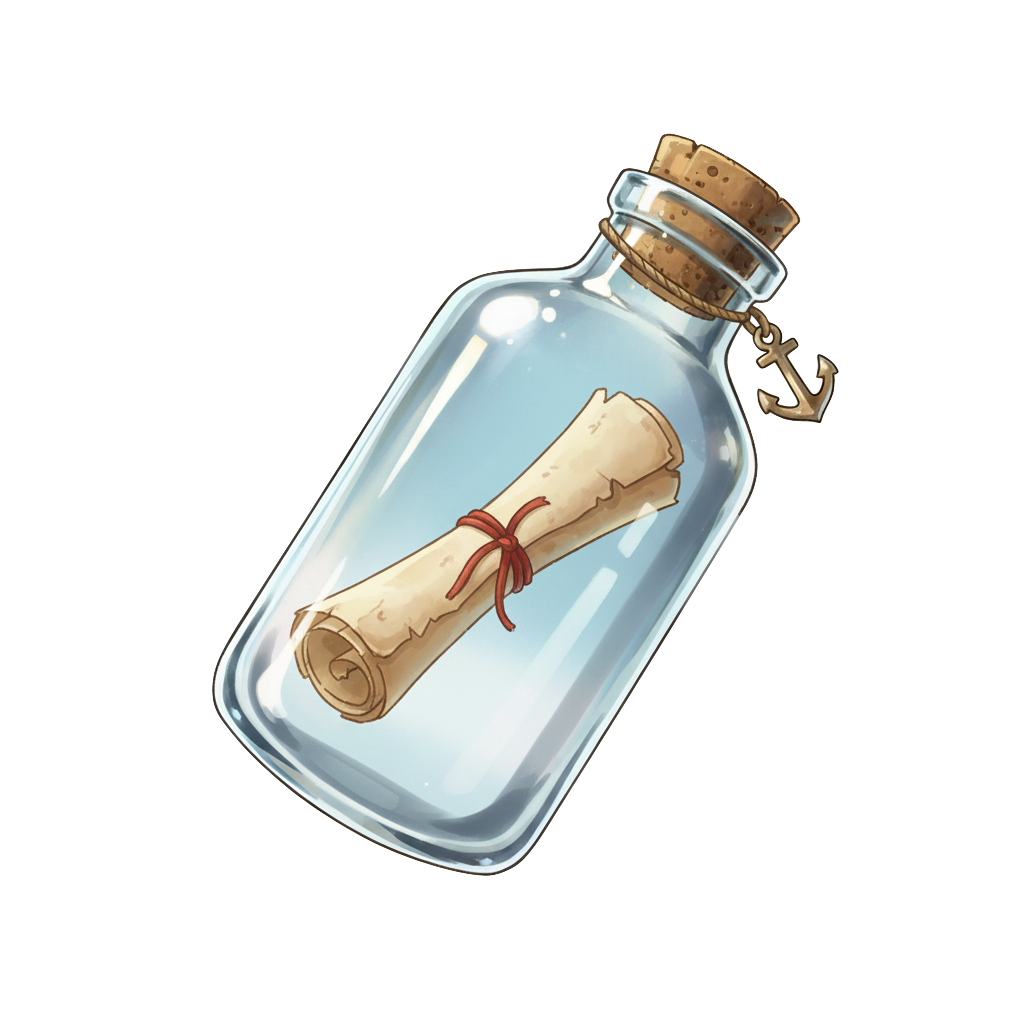
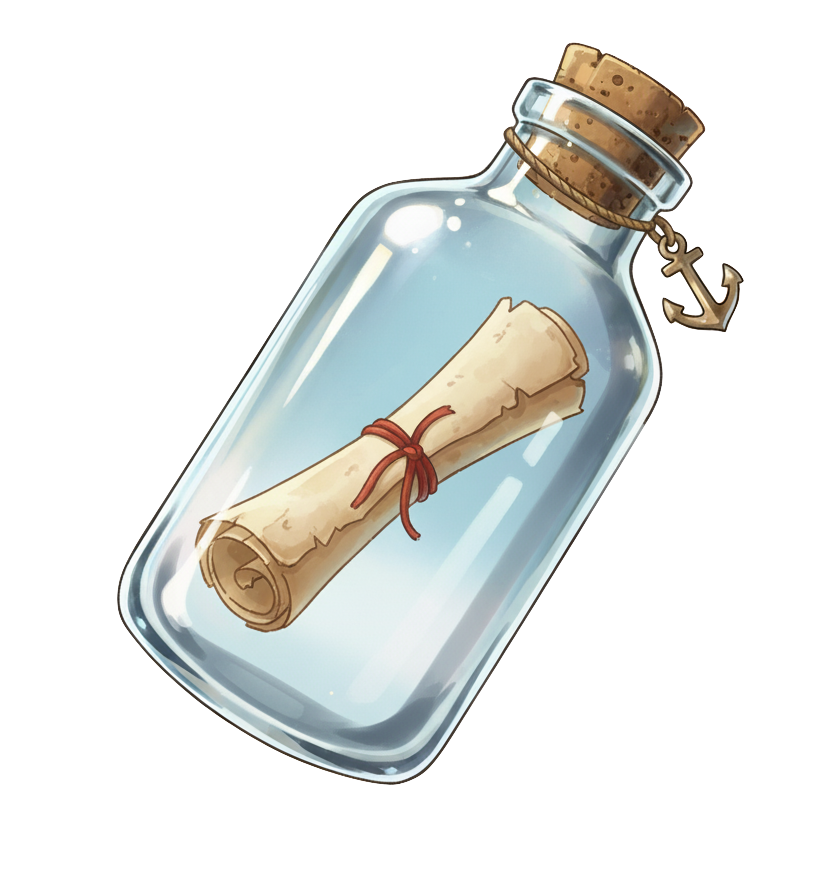
ボトルメールのUI頑張った

Changed region(s): [[0.1209, 0.0302, 0.9069, 0.8768]]

diff --git a/frontend/src/views/MainView.vue b/frontend/src/views/MainView.vue
@@ -33,24 +33,24 @@ const generateBottleStyle = (index) => {
   
   const pattern = patterns[index % patterns.length]
   
-  // 1. 大移動 (30〜45秒かけて移動)
-  const journeyDuration = Math.random() * 15 + 30
+  // 1. 大移動 (★35〜55秒かけて移動 - 少しゆっくりに)
+  const journeyDuration = Math.random() * 20 + 35
   const journeyDelay = Math.random() * 10
   
-  // 2. 縦の「ぷかぷか」 (3〜5秒周期で、50〜110px上下)
-  const bobDuration = Math.random() * 2 + 3
+  // 2. 縦の「ぷかぷか」 (★6〜11秒周期 - さらにゆったり)
+  const bobDuration = Math.random() * 5 + 6
   const bobDelay = Math.random() * 2
-  const bobY = Math.random() * 60 + 50
+  const bobY = Math.random() * 60 + 50 // 50〜110px上下
   
   // 3. 回転のゆらぎ (5〜9秒周期で、±25〜60度回転)
   const rotateDuration = Math.random() * 4 + 5
   const rotateDelay = Math.random() * 3
   const rotateAngle = Math.random() * 35 + 25
   
-  // 4. 小刻みな横揺れ (2〜4秒周期で、30〜70px左右)
-  const wiggleDuration = Math.random() * 2 + 2
+  // 4. 小刻みな横揺れ (★3〜6秒周期 - 少しゆっくりに)
+  const wiggleDuration = Math.random() * 3 + 3
   const wiggleDelay = Math.random() * 1.5
-  const wiggleX = Math.random() * 40 + 30
+  const wiggleX = Math.random() * 40 + 30 // 30〜70px左右
   
   return {
     '--start-x': `${pattern.startX}%`,
@@ -273,7 +273,6 @@ const isDimmed = computed(() => isModalOpen.value)
   pointer-events: none;
   z-index: 0;
 }
-
 .waves::before,
 .waves::after {
   content: '';
@@ -287,19 +286,16 @@ const isDimmed = computed(() => isModalOpen.value)
   background-repeat: repeat-x;
   animation: wave-scroll 15s linear infinite;
 }
-
 .waves::before {
   opacity: 0.1;
   animation-duration: 10s;
   animation-direction: reverse;
 }
-
 .waves::after {
   opacity: 0.2;
   animation-duration: 20s;
   bottom: 10px;
 }
-
 @keyframes wave-scroll {
   from { background-position-x: 0; }
   to { background-position-x: 1000px; }
@@ -342,134 +338,97 @@ const isDimmed = computed(() => isModalOpen.value)
   margin: 0 auto;
 }
 
-/* ========================================================= */
-/* ★★★ 改良: 4層アニメーション（滑らかな往復） ★★★ */
-/* ========================================================= */
-
-/* 1⃣ 画面を大きく横断 (0% -> 100% の「片道」) */
+/* アニメーションの定義 (片道) */
 @keyframes bottleJourney {
-  0% {
-    left: var(--start-x);
-    top: var(--start-y);
-  }
-  100% {
-    left: var(--end-x);
-    top: var(--end-y);
-  }
+  0% { left: var(--start-x); top: var(--start-y); }
+  100% { left: var(--end-x); top: var(--end-y); }
 }
-
-/* 2⃣ 縦の「ぷかぷか」波のうねり (0% -> 100% の「片道」) */
 @keyframes floatBob {
-  0% {
-    transform: translateY(0);
-  }
-  100% {
-    transform: translateY(calc(var(--bob-y) * -1));
-  }
+  0% { transform: translateY(0); }
+  100% { transform: translateY(calc(var(--bob-y) * -1)); }
 }
-
-/* 3⃣ 小刻みな横揺れ (0% -> 100% の「片道」) */
 @keyframes floatWiggle {
-  0% {
-    transform: translateX(0);
-  }
-  100% {
-    transform: translateX(var(--wiggle-x));
-  }
+  0% { transform: translateX(0); }
+  100% { transform: translateX(var(--wiggle-x)); }
 }
-
-/* 4⃣ 回転のゆらぎ (0% -> 100% の「片道」) */
 @keyframes floatRotate {
-  0% {
-    transform: rotate(calc(var(--rotate-angle) * -0.5));
-  }
-  100% {
-    transform: rotate(calc(var(--rotate-angle) * 0.5));
-  }
+  0% { transform: rotate(calc(var(--rotate-angle) * -0.5)); }
+  100% { transform: rotate(calc(var(--rotate-angle) * 0.5)); }
 }
 
-/* ボトルラッパー (4層全部適用 + 加速度調整) */
+/* ボトルラッパー (移動 + 上下動) */
 .bottle-wrapper {
   position: absolute;
   cursor: pointer;
-  z-index: 1; /* 波より上 */
-  
-  animation-name: bottleJourney, floatBob, floatWiggle, floatRotate;
-  
-  /* ★★★ 改良: 加速度の調整 ★★★ */
-  /*
-    'ease-in-out' に統一。
-    これにより、動きの「始まり」と「終わり」がすべて滑らかになる。
-  */
-  animation-timing-function: 
-    ease-in-out, /* 1. Journey */
-    ease-in-out, /* 2. Bob */
-    ease-in-out, /* 3. Wiggle */
-    ease-in-out; /* 4. Rotate */
-  
-  animation-iteration-count: infinite, infinite, infinite, infinite;
-  
-  /* ★★★ 改良: 往復運動の指定 ★★★ */
-  /*
-    'alternate' (往復) に設定。
-    これにより「行き」と「帰り」が滑らかに繋がり、
-    カクカクした「跳ね返り」が完全になくなる。
-  */
-  animation-direction: alternate, alternate, alternate, alternate;
-
-  /* ★★★ 改良: 初期位置の適用 ★★★ */
-  /*
-    'backwards' を指定。
-    これにより、リロード直後（delay中）に左上に飛ぶ問題がなくなり、
-    最初から 'start-x', 'start-y' の位置で待機する。
-  */
-  animation-fill-mode: backwards, backwards, backwards, backwards;
-
+  z-index: 1;
+  animation-name: bottleJourney, floatBob;
+  animation-timing-function: ease-in-out, ease-in-out;
+  animation-iteration-count: infinite, infinite;
+  animation-direction: alternate, alternate;
+  animation-fill-mode: backwards, backwards;
   animation-duration: 
     var(--journey-duration),
-    var(--bob-duration), 
-    var(--wiggle-duration),
-    var(--rotate-duration);
+    var(--bob-duration);
   animation-delay: 
     var(--journey-delay),
-    var(--bob-delay), 
-    var(--wiggle-delay),
-    var(--rotate-delay);
+    var(--bob-delay);
 }
 
-/* ★★★ 改良: .bottle コンテナ ★★★ */
+/* .bottle コンテナ (タグの親 + 横揺れ) */
 .bottle {
-  /* タグの配置基準にするため relative を指定 */
   position: relative;
-  display: inline-block; /* transform しやすくするため */
+  display: inline-block;
+  animation-name: floatWiggle;
+  animation-timing-function: ease-in-out;
+  animation-iteration-count: infinite;
+  animation-direction: alternate;
+  animation-fill-mode: backwards;
+  animation-duration: var(--wiggle-duration);
+  animation-delay: var(--wiggle-delay);
 }
 
-/* ボトル画像 */
+/* ボトル画像 (回転) */
 .bottle-image {
-  /* ★★★ 改良: ボトルサイズを大きく ★★★ */
-  width: 180px;
+  /* ★ サイズを大きく */
+  width: 220px; 
   height: auto;
   filter: drop-shadow(0 6px 12px rgba(0, 0, 0, 0.25));
   transition: transform 0.3s ease, filter 0.3s ease;
+  animation-name: floatRotate;
+  animation-timing-function: ease-in-out;
+  animation-iteration-count: infinite;
+  animation-direction: alternate;
+  animation-fill-mode: backwards;
+  animation-duration: var(--rotate-duration);
+  animation-delay: var(--rotate-delay);
 }
 
 .bottle-wrapper:hover .bottle-image {
   transform: scale(1.15);
   filter: drop-shadow(0 10px 20px rgba(0, 0, 0, 0.4));
+  animation-play-state: paused;
 }
-
 .bottle-wrapper:hover {
   animation-play-state: paused;
   z-index: 10;
 }
+.bottle-wrapper:hover .bottle {
+  animation-play-state: paused;
+}
 
-/* ★★★ 改良: タグのデザイン (白タグ) ★★★ */
+
+/* ★★★ 改良: タグのデザイン (中央基点) ★★★ */
 .bottle-tags {
   position: absolute;
-  /* ボトル画像の手紙の位置に微調整 */
-  bottom: 50px; 
-  left: 60%;
-  transform: translateX(-50%) rotate(8deg); /* 少し斜めに */
+  /* ★ .bottle コンテナの中央を基点にする */
+  top: 50%;
+  left: 50%;
+  /* ★ 基点から手紙の紐あたりまで微調整 */
+  /* translateX(-50%) translateY(-50%) で中央揃えにしつつ、
+     ピクセルで右下にずらす */
+  /* ★★★ 改良: translateY の値を増やして全体を下に移動 ★★★ */
+  /* 以前: translateY(calc(-50% + 15px)) */
+  transform: translateX(calc(-50% + 25px)) translateY(calc(-50% + 60px)) rotate(8deg); /* Y方向のオフセットを +15px -> +25px に変更 */
   display: flex;
   flex-direction: column;
   gap: 4px;
@@ -482,25 +441,32 @@ const isDimmed = computed(() => isModalOpen.value)
 .bottle-tags::before {
   content: '';
   position: absolute;
-  top: -12px;
-  left: 10px;
-  width: 1px; /* 紐を細く */
-  height: 15px;
-  background: #A1887F; /* 紐の色 (こげ茶) */
-  transform: rotate(-25deg);
+  /* ★ タグの上端左側に紐の「下端」が来るように調整 */
+  top: -30px;      /* タグの上端に合わせる */
+  left: 0px;   /* タグの少し左に起点 */
+  
+  /* ★ 紐自体の回転起点 */
+  transform-origin: bottom center; 
+  
+  /* ★★★ 改良: translateYを削除し、rotateのみにする ★★★ */
+  /* これにより、紐の下端が top:0, left:5px の位置に来る */
+  transform: rotate(-15deg); 
+  
+  width: 2px;
+  height: 35px; /* 紐の長さ */
+  background: #902821c3;
   opacity: 0.8;
 }
-
 /* 白いタグ本体 */
 .simple-tag {
-  background: #ffffff; /* 白背景 */
+  background: rgba(255, 255, 255, 0.85); /* 半透明 */
   padding: 3px 7px;
   border-radius: 4px;
   font-size: 0.7rem;
-  color: #4E4E4E; /* グレー文字 */
-  box-shadow: 0 1px 3px rgba(0,0,0,0.2);
+  color: #4E4E4E;
+  box-shadow: 0 1px 3px rgba(0,0,0,0.15);
   font-weight: 600;
-  border: 1px solid #eee;
+  border: 1px solid rgba(255, 255, 255, 0.4);
   white-space: nowrap;
 }
 
@@ -509,7 +475,7 @@ const isDimmed = computed(() => isModalOpen.value)
   font-size: 0.7rem;
   color: #4E4E4E;
   font-weight: 600;
-  background: rgba(255, 255, 255, 0.9);
+  background: rgba(255, 255, 255, 0.75);
   border-radius: 4px;
   padding: 2px 4px;
 }
@@ -625,7 +591,6 @@ const isDimmed = computed(() => isModalOpen.value)
 /* レスポンシブ */
 @media (max-width: 768px) {
   .bottle-image { 
-    /* ★★★ 改良: スマホでもサイズアップ ★★★ */
     width: 125px; 
   }
   .floating-toggle { 
@@ -636,6 +601,15 @@ const isDimmed = computed(() => isModalOpen.value)
   .simple-tag { 
     font-size: 0.65rem; 
     padding: 3px 6px; 
+  }
+  
+  /* ★ スマホ用のタグ位置調整 */
+  .bottle-tags {
+    /* (125px幅の画像に合わせる) */
+    top: 50%;
+    left: 50%;
+    /* 中央から右下に微調整 */
+    transform: translateX(calc(-50% + 15px)) translateY(calc(-50% + 10px)) rotate(8deg); 
   }
 }
 </style>
